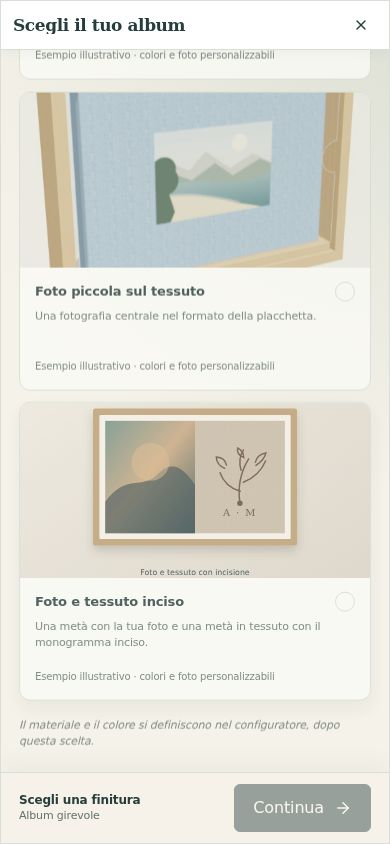
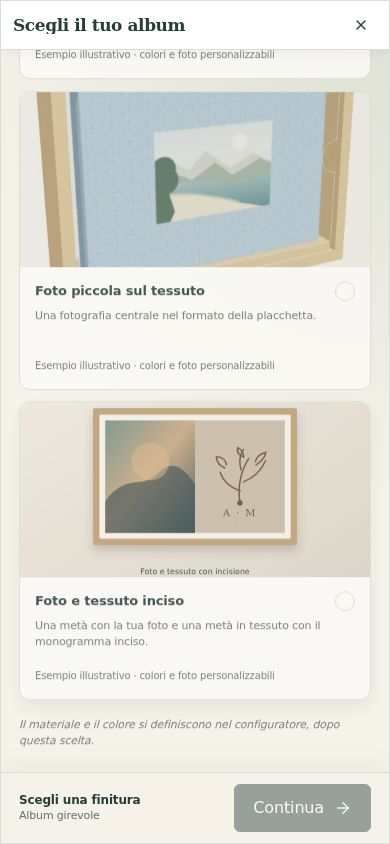
Implement photobook mockup wizard layout and update test screenshots
Replit-Commit-Author: Agent

diff --git a/client/src/components/photobook/mockup-wizard-layout.ts b/client/src/components/photobook/mockup-wizard-layout.ts
@@ -118,6 +118,211 @@ export function installMockupWizard(doc: Document, mobile = false) {
      body[data-wizard] .wizard-views{gap:3px!important;padding:4px;border:1px solid #ffffffb8;border-radius:12px;background:#fffffff0;box-shadow:0 8px 20px #263d3b18}
      body[data-wizard] .wizard-views button{min-height:36px;border:0;border-radius:8px;color:#596b65;background:transparent;font-size:11px;font-weight:600}
      body[data-wizard] .wizard-views button:hover{color:#234943;background:#eef2ed}
+     body[data-wizard] {
+       --wizard-ink:#263d3b;
+       --wizard-sage:#335e56;
+       --wizard-sage-soft:#eef2ed;
+       --wizard-coral:#bd6853;
+       --wizard-coral-soft:#fff0eb;
+       --wizard-paper:#fbfaf6;
+       --wizard-line:#d9dfd8;
+       --wizard-muted:#71807b;
+     }
+     body[data-wizard] aside,
+     body[data-wizard] .panel-content,
+     body[data-wizard] .panel-content section {color:var(--wizard-ink)}
+     body[data-wizard] .panel-content>section>h2,
+     body[data-wizard] .panel-content>section>h3,
+     body[data-wizard] #detailPanel>section>h2,
+     body[data-wizard] #detailPanel>section>h3 {
+       margin:16px 0 9px;
+       color:var(--wizard-ink);
+       font:600 19px/1.12 Georgia,serif;
+     }
+     body[data-wizard] .panel-content>section>p,
+     body[data-wizard] #detailPanel>section>p,
+     body[data-wizard] .panel-content .description,
+     body[data-wizard] .panel-content .help-text {
+       color:var(--wizard-muted);
+       font-size:12px;
+       line-height:1.45;
+     }
+     body[data-wizard] label {
+       display:block;
+       margin:12px 0 6px;
+       color:var(--wizard-sage);
+       font-size:10px;
+       font-weight:800;
+       letter-spacing:.09em;
+       line-height:1.25;
+       text-transform:uppercase;
+     }
+     body[data-wizard] :is(select,input[type=text],input[type=number],input[type=email],textarea) {
+       border:1px solid var(--wizard-line);
+       border-radius:9px;
+       background:#fff;
+       color:var(--wizard-ink);
+       box-shadow:none;
+     }
+     body[data-wizard] :is(select,input[type=text],input[type=number],input[type=email],textarea):focus {
+       border-color:var(--wizard-sage);
+       outline:3px solid #335e5622;
+     }
+     body[data-wizard] :is(.category,.material-category) {
+       margin:10px 0;
+       border:1px solid var(--wizard-line);
+       border-radius:12px;
+       background:var(--wizard-paper);
+       overflow:hidden;
+     }
+     body[data-wizard] :is(.category,.material-category)>summary {
+       display:flex;
+       align-items:center;
+       justify-content:space-between;
+       gap:12px;
+       min-height:44px;
+       padding:12px 13px;
+       color:var(--wizard-sage);
+       font-size:11px;
+       font-weight:800;
+       letter-spacing:.08em;
+       line-height:1.2;
+       text-transform:uppercase;
+     }
+     body[data-wizard] :is(.category,.material-category)>summary::after {
+       content:'+';
+       display:grid;
+       width:20px;
+       height:20px;
+       place-items:center;
+       border:1px solid var(--wizard-line);
+       border-radius:50%;
+       color:var(--wizard-sage);
+       font-size:15px;
+       line-height:1;
+     }
+     body[data-wizard] :is(.category,.material-category)[open]>summary::after {
+       content:'−';
+       background:var(--wizard-sage-soft);
+     }
+     body[data-wizard] :is(.category,.material-category)>:not(summary) {
+       margin-left:12px;
+       margin-right:12px;
+     }
+     body[data-wizard] .materials {
+       display:grid;
+       grid-template-columns:repeat(3,minmax(0,1fr));
+       grid-auto-rows:max-content;
+       gap:8px;
+       padding:0 0 12px;
+     }
+     body[data-wizard] .materials button {
+       position:relative;
+       min-height:60px;
+       padding:9px 8px;
+       border:1px solid var(--wizard-line);
+       border-radius:10px;
+       background:#fff;
+       color:var(--wizard-ink);
+       font-size:11px;
+       font-weight:700;
+       line-height:1.25;
+       text-align:left;
+       transition:border-color .15s,background .15s,box-shadow .15s,transform .15s;
+     }
+     body[data-wizard] .materials button:hover {
+       border-color:var(--wizard-sage);
+       background:var(--wizard-sage-soft);
+       transform:translateY(-1px);
+     }
+     body[data-wizard] .materials button:is([aria-pressed=true],[aria-selected=true],[data-selected=true],.selected,.active) {
+       border-color:var(--wizard-sage);
+       background:var(--wizard-sage-soft);
+       box-shadow:inset 0 0 0 1px var(--wizard-sage),0 0 0 2px #335e5618;
+     }
+     body[data-wizard] .materials button:is([aria-pressed=true],[aria-selected=true],[data-selected=true],.selected,.active)::after,
+     body[data-wizard] .wizard-cards button:is([aria-pressed=true],[aria-selected=true],[data-selected=true],.selected,.active)::after {
+       content:'✓';
+       position:absolute;
+       top:6px;
+       right:7px;
+       color:var(--wizard-sage);
+       font-size:12px;
+       font-weight:900;
+     }
+     body[data-wizard] .materials img,
+     body[data-wizard] .materials .swatch,
+     body[data-wizard] .materials [class*=swatch] {
+       width:100%;
+       min-height:24px;
+       max-height:48px;
+       margin-bottom:6px;
+       border-radius:7px;
+       object-fit:cover;
+     }
+     body[data-wizard] .wizard-cards {
+       display:grid;
+       grid-template-columns:repeat(2,minmax(0,1fr));
+       grid-auto-rows:max-content;
+       gap:8px;
+       margin:10px 0 13px;
+     }
+     body[data-wizard] .wizard-cards button {
+       position:relative;
+       min-height:54px;
+       padding:10px 11px;
+       border:1px solid var(--wizard-line);
+       border-radius:10px;
+       background:#fff;
+       color:var(--wizard-ink);
+       font-size:12px;
+       font-weight:700;
+       line-height:1.3;
+       text-align:left;
+       transition:border-color .15s,background .15s,box-shadow .15s;
+     }
+     body[data-wizard] .wizard-cards button:hover,
+     body[data-wizard] .wizard-cards button:is([aria-pressed=true],[aria-selected=true],[data-selected=true],.selected,.active) {
+       border-color:var(--wizard-sage);
+       background:var(--wizard-sage-soft);
+       box-shadow:inset 0 0 0 1px var(--wizard-sage),0 0 0 2px #335e5618;
+     }
+     body[data-wizard] .wizard-cards button[disabled] {
+       cursor:not-allowed;
+       opacity:.55;
+     }
+     body[data-wizard] .wizard-photo-actions {
+       padding:10px;
+       border:1px solid var(--wizard-line);
+       border-radius:11px;
+       background:var(--wizard-paper);
+     }
+     body[data-wizard] .wizard-photo-actions button:hover,
+     body[data-wizard] .download-bar #downloadClient:hover {
+       border-color:var(--wizard-sage);
+       background:var(--wizard-sage-soft);
+     }
+     body[data-wizard] .wizard-validation,
+     body[data-wizard] .error,
+     body[data-wizard] [role=alert] {
+       border-radius:9px;
+       border-left:3px solid var(--wizard-coral);
+       background:var(--wizard-coral-soft);
+       color:#7d4437;
+     }
+     body[data-wizard] .wizard-nav {
+       border-top:1px solid var(--wizard-line);
+     }
+     body[data-wizard] .wizard-primary,
+     body[data-wizard] .wizard-mobile-actions .wizard-primary {
+       border-color:var(--wizard-sage);
+       background:var(--wizard-sage);
+       color:#fff;
+     }
+     body[data-wizard] .wizard-primary:hover:not(:disabled),
+     body[data-wizard] .wizard-mobile-actions .wizard-primary:hover:not(:disabled) {
+       background:#234943;
+     }
       @media(min-width:768px){body[data-wizard] main{grid-template-columns:minmax(0,1.4fr) minmax(300px,1fr);grid-template-rows:minmax(0,1fr)}body[data-wizard] aside{grid-row:1;grid-column:2;padding:22px}body[data-wizard] .workspace{grid-column:1}}
     @media(max-width:767px) and (max-height:380px){body[data-wizard] main{grid-template-rows:minmax(100px,35%) minmax(0,1fr)}body[data-wizard] .wizard-views button:nth-child(3){display:none}}
   `;
